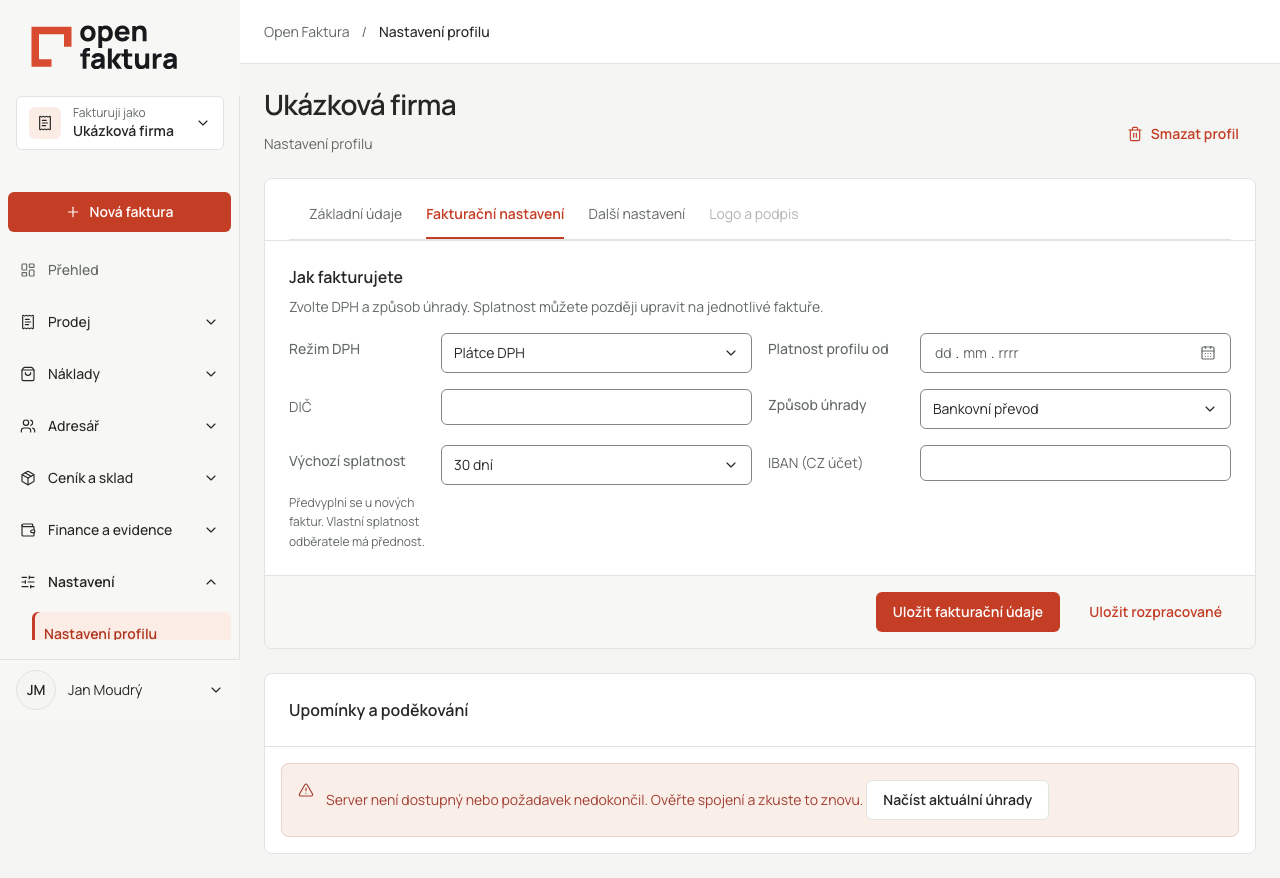
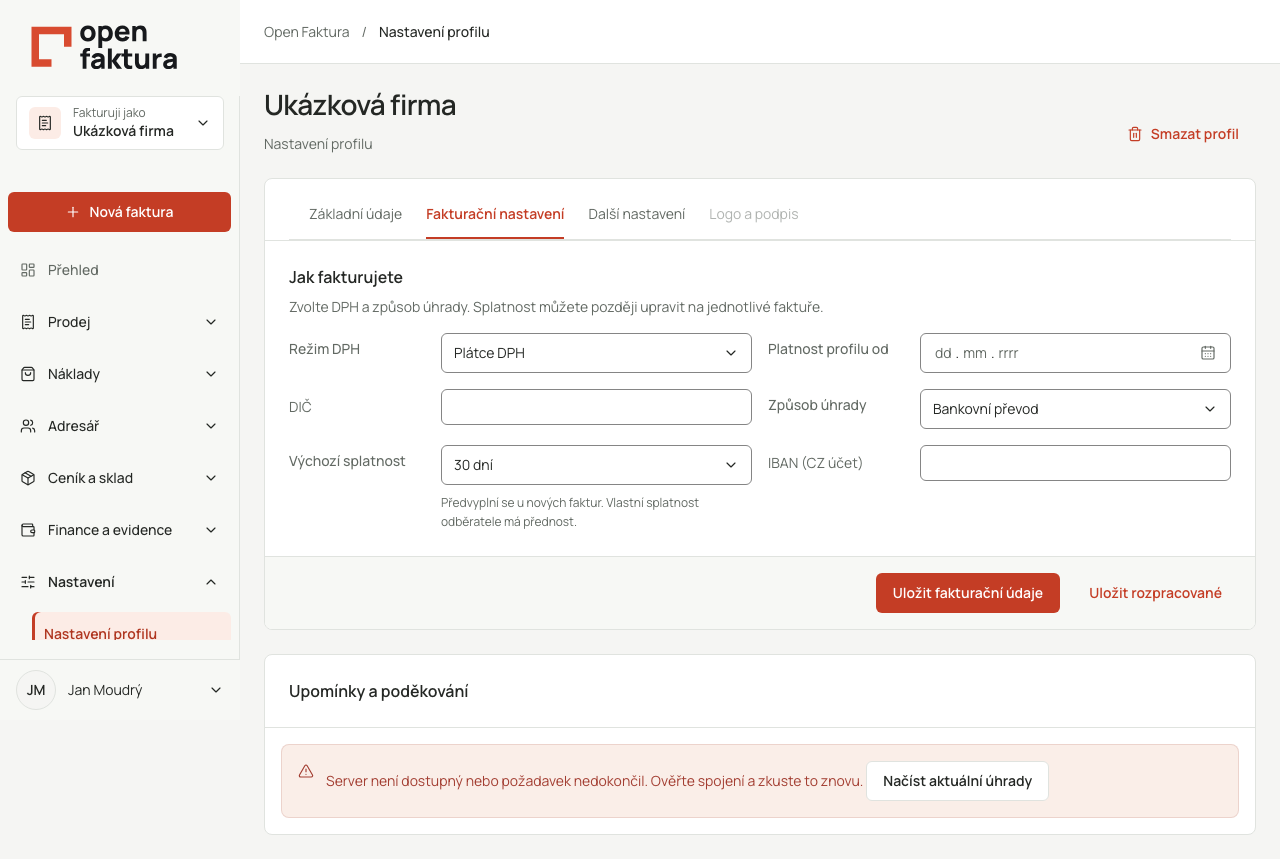
fix(web): align company payment term help with its control

diff --git a/apps/web/src/styles/app.css b/apps/web/src/styles/app.css
@@ -283,6 +283,9 @@ details[open] > .contact-disclosure svg {
     min-height: var(--size-control-sm);
   }
   @media (min-width: 64rem) {
+    .profile-section .ui-selection > .text-muted {
+      grid-column: 2;
+    }
     .profile-facts > div {
       grid-template-columns: var(--spacing-form-label) minmax(0, 1fr);
     }
